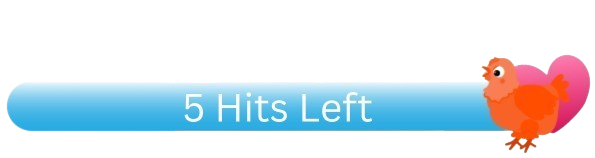
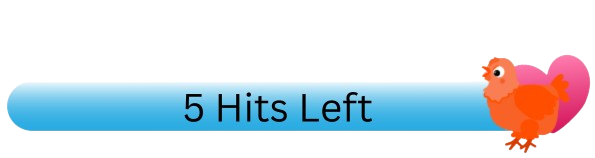
nochmal vieles überarbeit wie muted im localStorage chickens besser hiten von oben offsets überarbeitet bossbar verändert und code cleaner gemacht

diff --git a/classes/chicken.class.js b/classes/chicken.class.js
@@ -42,25 +42,35 @@ class Chicken extends movableObject {
   animate(chicken) {
     setInterval(() => {
       if (chicken == "normal") {
-        if (this.chickenHit == 1) {
-          this.playAnimation(this.chicken_Normal_Dead);
-        } else {
-          this.playAnimation(this.chicken_Normal_Walking);
-        }
+        this.normalChickenAnimations();
       }
       if (chicken == "small") {
-        if (this.chickenHit == 1) {
-          this.playAnimation(this.chicken_Small_Dead);
-        } else {
-          this.playAnimation(this.chicken_Small_Walking);
-        }
+        this.smallChickenAnimations();
       }
     }, 1000 / 10);
 
     setInterval(() => {
       if (this.chickenHit == 0) {
-      this.moveLeft();
+        this.moveLeft();
       }
     }, 1000 / 15);
+  }
+
+    /** * animations for the normal size chickens */
+  normalChickenAnimations() {
+    if (this.chickenHit == 1) {
+      this.playAnimation(this.chicken_Normal_Dead);
+    } else {
+      this.playAnimation(this.chicken_Normal_Walking);
+    }
+  }
+
+  /** * animations for the small size chickens */
+  smallChickenAnimations() {
+    if (this.chickenHit == 1) {
+      this.playAnimation(this.chicken_Small_Dead);
+    } else {
+      this.playAnimation(this.chicken_Small_Walking);
+    }
   }
 }

diff --git a/scripts/game.js b/scripts/game.js
@@ -26,6 +26,9 @@ function init() {
 /** * function that gets and sets mute in the localStorage */
 function setMuteInLocalStorage(reload){
 let path = localStorage.getItem("muted");
+if (path == null) {
+  path = "false";
+}
 if (reload) {
   path = checkFromPageReload(path);
 }
@@ -99,6 +102,7 @@ function addStartScreen() {
   };
 }
 
+/** *checks if the keys is pressed if its pressed it makes the variable to true */
 window.addEventListener("keydown", (event) => {
   if (event.keyCode == 68) {
     keyboard.RIGHT = true;
@@ -117,6 +121,7 @@ window.addEventListener("keydown", (event) => {
   }
 });
 
+/** *checks if the keys is released if its released it makes the variable to false again */
 window.addEventListener("keyup", (event) => {
   if (event.keyCode == 68) {
     keyboard.RIGHT = false;

diff --git a/classes/movable-object.class.js b/classes/movable-object.class.js
@@ -59,7 +59,6 @@ class movableObject extends DrawableObject {
   isAbove(enemy) {
     const characterBottom = this.y + this.height - this.offset.bottom;
     const enemyTop = enemy.y + enemy.offset.top;
-    console.log(this.speedY)
     return (
       characterBottom >= enemyTop  && 
       this.speedY > -27.5 && this.speedY < -10                  
@@ -77,8 +76,11 @@ class movableObject extends DrawableObject {
   }
 
   /** * speed of jumping */
-  jump() {
-    return (this.speedY = 25);
+  jump(y, speedY) {
+    if (speedY < -1) {
+    y = -speedY
+    }
+    return (this.speedY = y);
   }
 
   /** * when ernegy is 0 you are dead */

diff --git a/classes/ThrowableObject.class.js b/classes/ThrowableObject.class.js
@@ -44,12 +44,14 @@ bottleSplash = [
     }, 25);
   }
 
+  /** *gives the bottle a flying and turning animation */
   animate(){
    this.bottleAnimation = setInterval(() => {
       this.playAnimation(this.bottleFlyAnimation);
     }, 1000/25);
   }
 
+  /** *when the bottle have contact with the enemie it splashes on the point */
   splash(){
 clearInterval(this.FlyingBottle);
 clearInterval(this.bottleAnimation);

diff --git a/classes/world.class.js b/classes/world.class.js
@@ -127,7 +127,7 @@ class World {
         if (enemy.chickenHit == 0) {
           if (this.character.isAbove(enemy)) {
             this.level.enemies[index].chickenHit = 1;
-            this.character.jump();
+            this.character.jump(22.5, this.character.speedY);
             setTimeout(() => {}, 1000);
           } else {
             this.character.hit();

diff --git a/classes/character.class.js b/classes/character.class.js
@@ -173,7 +173,7 @@ class Character extends movableObject {
 
 /** * function to jump */
   jumpFunction() {
-    this.jump();
+    this.jump(25);
     this.jumpSound.play();
   }
 
